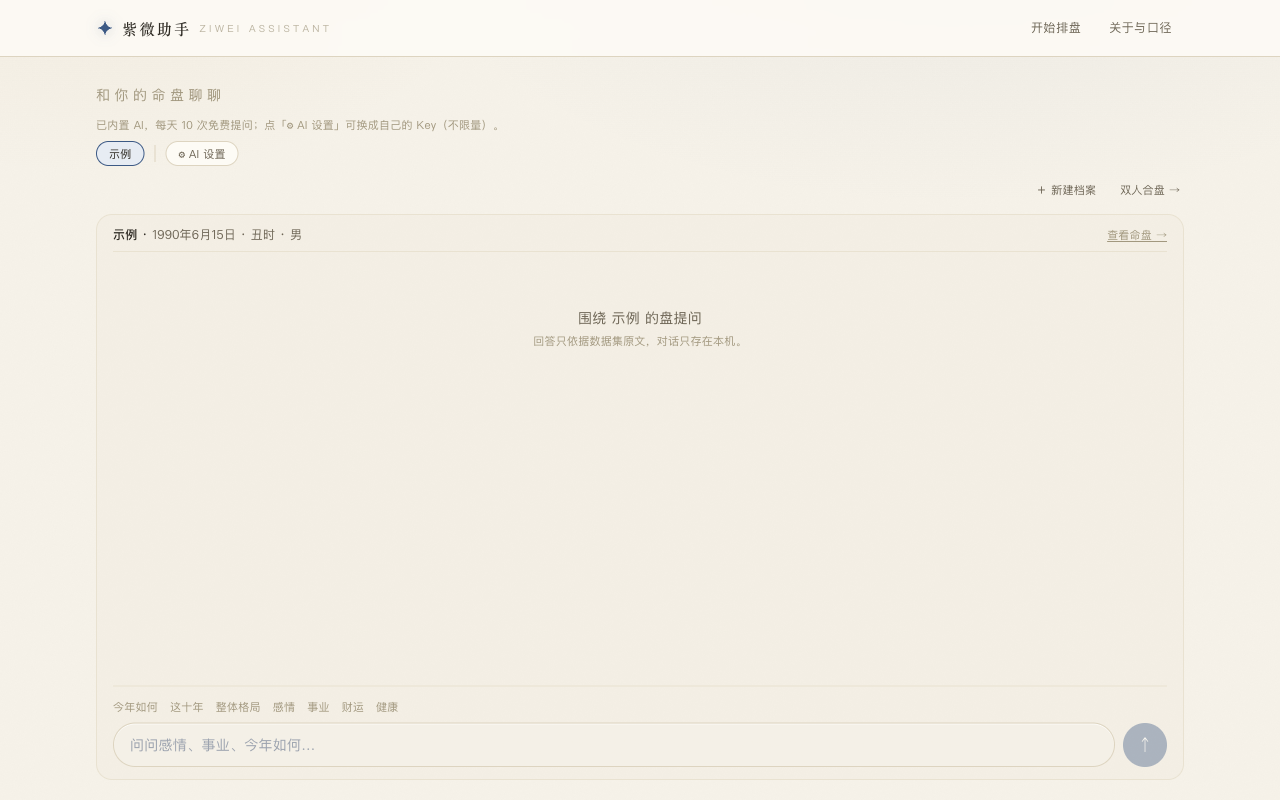
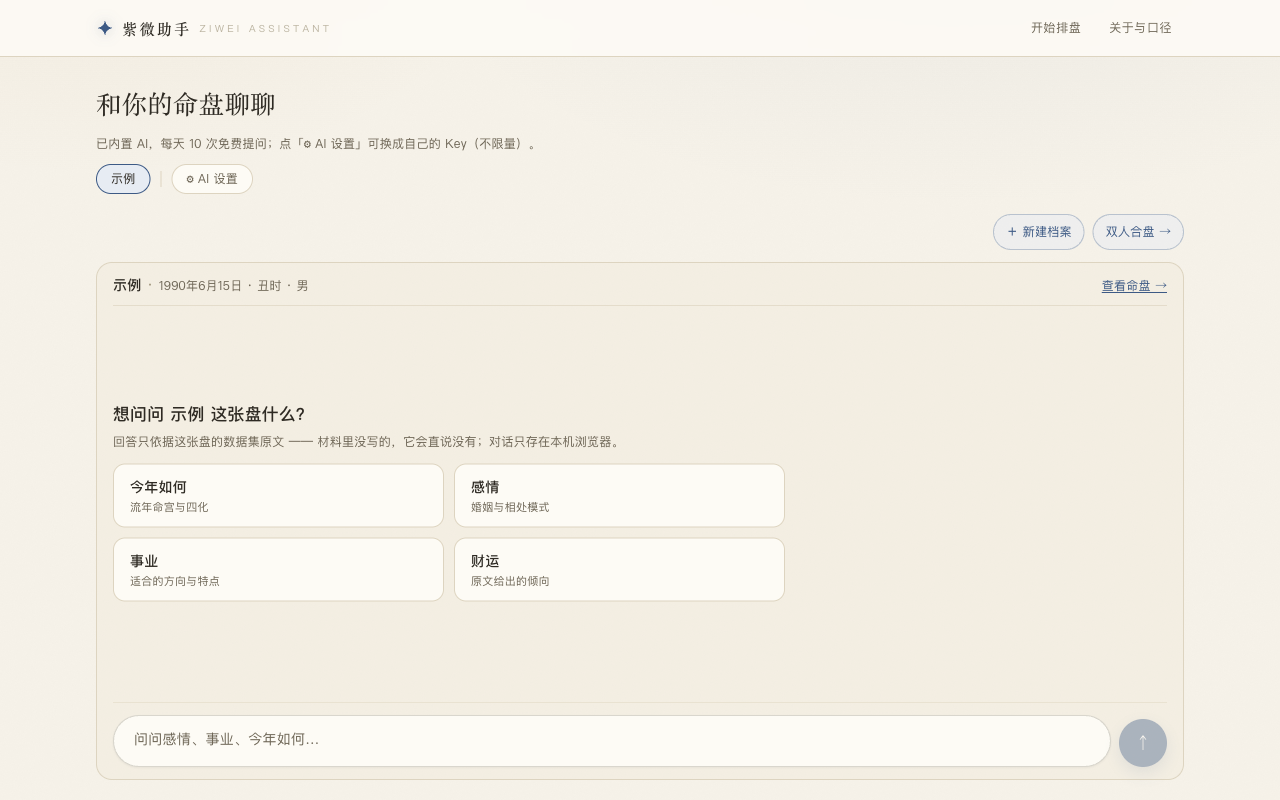
docs(readme): 换成重做后的首页与排盘页截图

diff --git a/README.md b/README.md
@@ -17,7 +17,7 @@
 
 ## 界面预览
 
-**首页就是对话：面板头写清在问哪张盘，输入框钉在屏幕底部**
+**首页就是对话：面板头写清在问哪张盘，空态给四张可点的引导卡片，输入框钉在屏幕底部**
 
 ![首页对话](docs/images/home.png)
 
